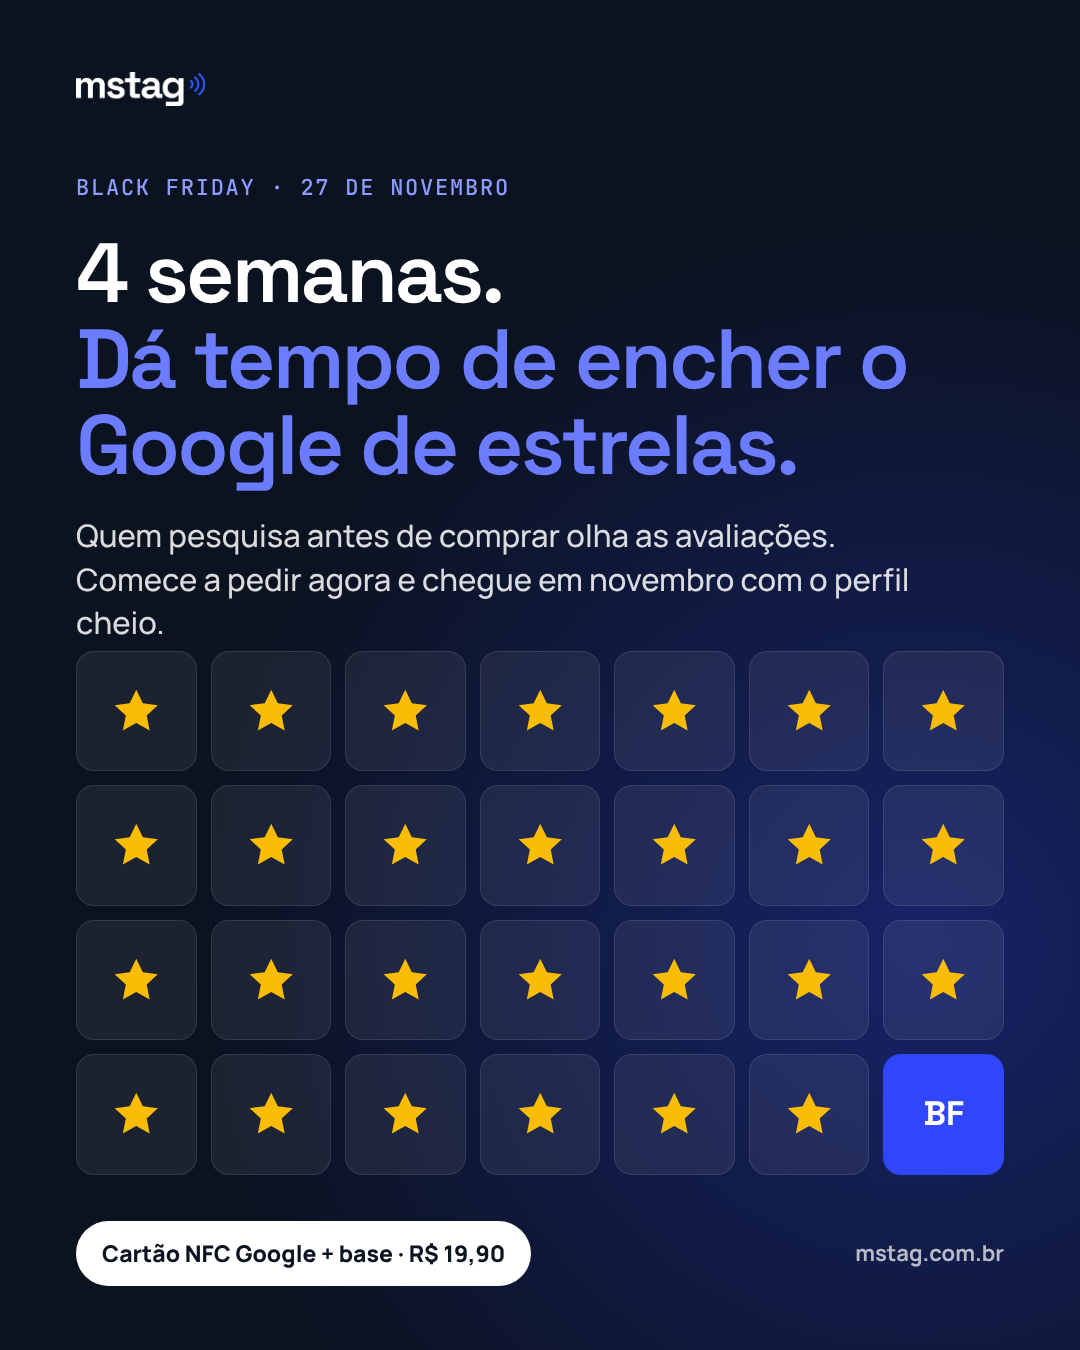
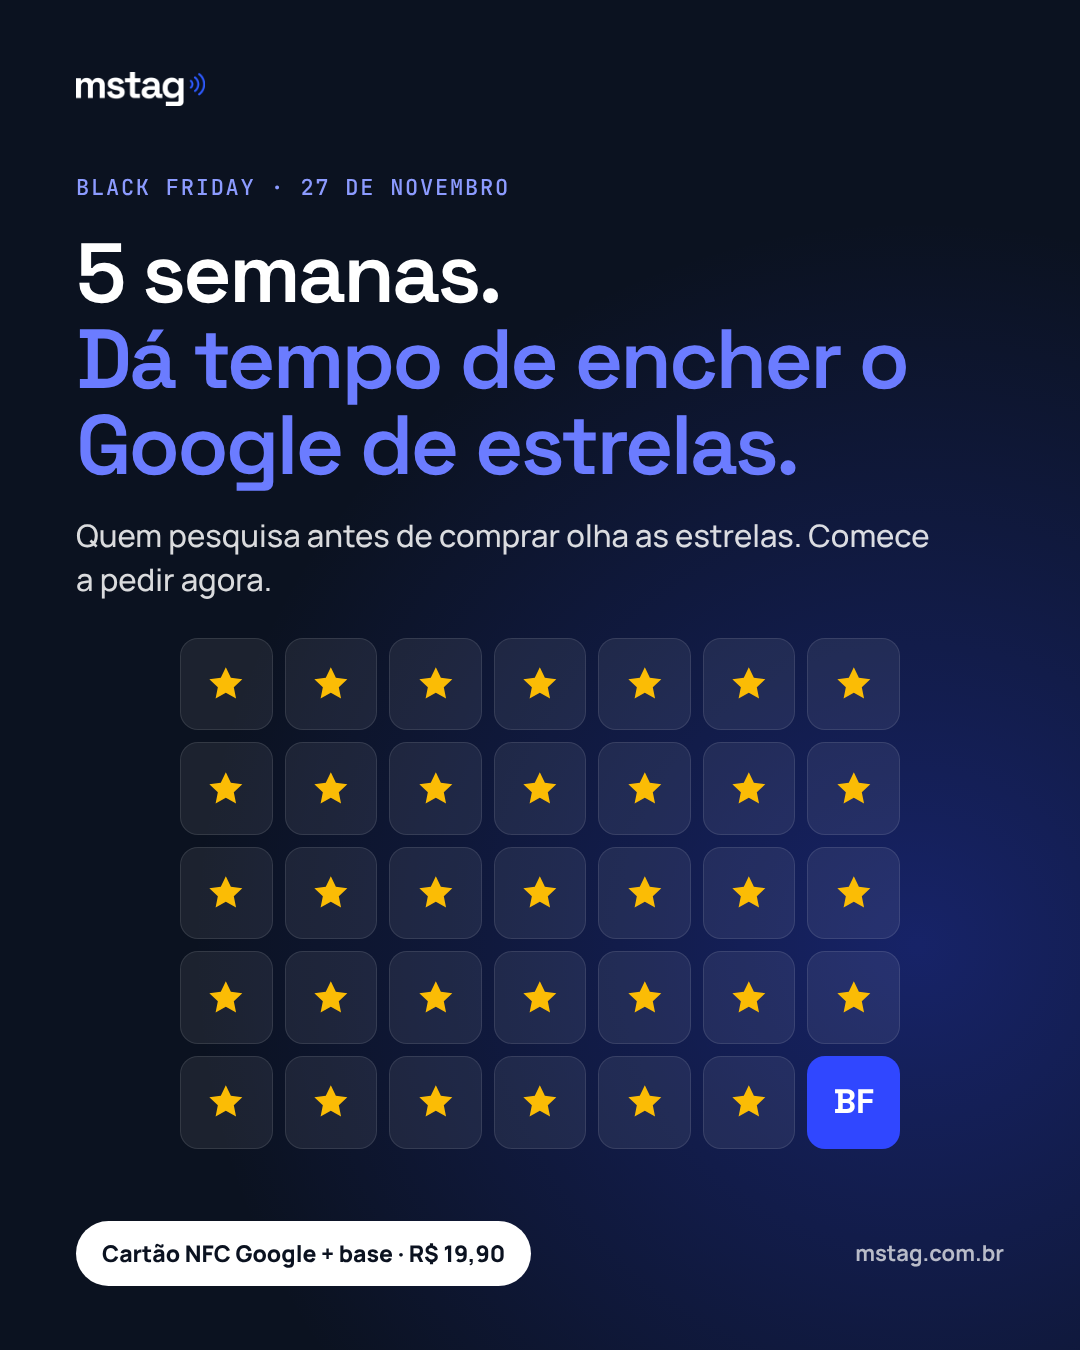
Antecipa o calendário dos posts para 13 a 24/10 e ajusta a contagem da Black Friday
Claude-Session: https://claude.ai/code/session_01LcrbZauJ496bCczRi3vv9g

diff --git a/instagram/LEGENDAS.md b/instagram/LEGENDAS.md
@@ -1,27 +1,27 @@
-# Instagram @mstagbr · 2 semanas de posts (19/10 a 31/10/2026)
+# Instagram @mstagbr · 2 semanas de posts (13/10 a 24/10/2026)
 
-10 posts, 5 por semana, sem repetir os temas que já estão no perfil. Artes em 1080 × 1350 (4:5) nas pastas `p01-...` a `p10-...`. Carrossel = poste as imagens na ordem `01.png`, `02.png`...
+10 posts, 5 por semana, agendados no Metricool (o primeiro às 12h, os demais às 10h), sem repetir os temas que já estão no perfil. Artes em 1080 × 1350 (4:5) nas pastas `p01-...` a `p10-...`. Carrossel = poste as imagens na ordem `01.png`, `02.png`...
 
 Preços conferidos com o `js/config.js` (out/2026): plaquinhas 10 × 10 R$ 79,99, 10 × 15 em L e display de mesa R$ 89,99, cartão NFC com base R$ 19,90.
 
 | Dia | Post | Formato | Tema |
 | --- | --- | --- | --- |
-| Seg 19/10 | p01 | Carrossel 4 | Funciona no iPhone? Onde encostar |
-| Qua 21/10 | p02 | Único | Quadrada (10 × 10) ou em L (10 × 15) |
-| Qui 22/10 | p03 | Único | Sem bateria, sem tomada, sem app |
-| Sex 23/10 | p04 | Carrossel 6 | 5 lugares onde a plaquinha trabalha sozinha |
-| Sáb 24/10 | p05 | Único | Barbearias e salões |
-| Seg 26/10 | p06 | Carrossel 4 | Mudou o link? A placa fica (QR dinâmico) |
-| Qua 28/10 | p07 | Único | Display de mesa: o que o garçom ouve a noite toda |
-| Qui 29/10 | p08 | Carrossel 5 | Como responder avaliações no Google |
-| Sex 30/10 | p09 | Carrossel 4 | Programa de revenda |
-| Sáb 31/10 | p10 | Único | 4 semanas pra Black Friday (27/11) |
+| Ter 13/10 | p01 | Carrossel 4 | Funciona no iPhone? Onde encostar |
+| Qua 14/10 | p02 | Único | Quadrada (10 × 10) ou em L (10 × 15) |
+| Qui 15/10 | p03 | Único | Sem bateria, sem tomada, sem app |
+| Sex 16/10 | p04 | Carrossel 6 | 5 lugares onde a plaquinha trabalha sozinha |
+| Sáb 17/10 | p05 | Único | Barbearias e salões |
+| Seg 19/10 | p06 | Carrossel 4 | Mudou o link? A placa fica (QR dinâmico) |
+| Qua 21/10 | p07 | Único | Display de mesa: o que o garçom ouve a noite toda |
+| Qui 22/10 | p08 | Carrossel 5 | Como responder avaliações no Google |
+| Sex 23/10 | p09 | Carrossel 4 | Programa de revenda |
+| Sáb 24/10 | p10 | Único | 5 semanas pra Black Friday (27/11) |
 
 ---
 
 ## Semana 1
 
-### p01 · Seg 19/10 · Carrossel · Funciona no iPhone?
+### p01 · Ter 13/10 · Carrossel · Funciona no iPhone?
 
 A pergunta que mais ouvimos no balcão: "funciona no meu celular?" 📱
 
@@ -39,7 +39,7 @@ Salva esse post pra mostrar pro cliente que ainda acha que "isso é coisa de cel
 
 ---
 
-### p02 · Qua 21/10 · Único · Quadrada ou em L?
+### p02 · Qua 14/10 · Único · Quadrada ou em L?
 
 Quadrada ou em L? Depende do seu balcão 👀
 
@@ -59,7 +59,7 @@ Comenta 📦 se a sua seria a quadrada ou 🅻 se seria a em L!
 
 ---
 
-### p03 · Qui 22/10 · Único · Sem bateria, sem tomada, sem app
+### p03 · Qui 15/10 · Único · Sem bateria, sem tomada, sem app
 
 "Mas precisa carregar?" Não 🔋❌
 
@@ -78,7 +78,7 @@ Coloca no balcão e esquece. Ela trabalha sozinha. 💙
 
 ---
 
-### p04 · Sex 23/10 · Carrossel · 5 lugares
+### p04 · Sex 16/10 · Carrossel · 5 lugares
 
 Não é só no caixa 👇 Os 5 lugares onde a plaquinha mais rende:
 
@@ -96,7 +96,7 @@ Qual desses lugares tem no seu negócio? Conta aqui 👇
 
 ---
 
-### p05 · Sáb 24/10 · Único · Barbearias e salões
+### p05 · Sáb 17/10 · Único · Barbearias e salões
 
 Corte aprovado no espelho ✂ 5 estrelas no Google ⭐
 
@@ -114,7 +114,7 @@ Marca aqui aquele barbeiro ou cabeleireiro que merece uma plaquinha 👇
 
 ## Semana 2
 
-### p06 · Seg 26/10 · Carrossel · Mudou o link? A placa fica
+### p06 · Seg 19/10 · Carrossel · Mudou o link? A placa fica
 
 Trocou o @ do Instagram, o cardápio, o número do WhatsApp... e agora a placa no balcão aponta pro lugar errado? 😬
 
@@ -132,7 +132,7 @@ Compra uma vez, acompanha o seu negócio. 💙
 
 ---
 
-### p07 · Qua 28/10 · Único · O que o garçom ouve a noite toda
+### p07 · Qua 21/10 · Único · O que o garçom ouve a noite toda
 
 "Qual a senha do Wi-Fi?"
 "Tem cardápio?"
@@ -151,7 +151,7 @@ Marca o dono daquele lugar que você sempre pergunta a senha do Wi-Fi 👇
 
 ---
 
-### p08 · Qui 29/10 · Carrossel · Como responder avaliações
+### p08 · Qui 22/10 · Carrossel · Como responder avaliações
 
 Chegou avaliação no Google. E agora, responde? ✍
 
@@ -170,7 +170,7 @@ E pra ter muita avaliação pra responder, a plaquinha pede por você no balcão
 
 ---
 
-### p09 · Sex 30/10 · Carrossel · Revenda
+### p09 · Sex 23/10 · Carrossel · Revenda
 
 Quer ganhar dinheiro vendendo plaquinha NFC? 💸
 
@@ -189,9 +189,9 @@ Ideal pra agências, social media, gráficas, representantes e quem vende porta 
 
 ---
 
-### p10 · Sáb 31/10 · Único · 4 semanas pra Black Friday
+### p10 · Sáb 24/10 · Único · 5 semanas pra Black Friday
 
-Faltam 4 semanas pra Black Friday (27/11) 🖤
+Faltam 5 semanas pra Black Friday (27/11) 🖤
 
 Em novembro muita gente pesquisa antes de comprar, e a primeira coisa que olha são as estrelas no Google. Dá tempo de chegar lá com o perfil cheio de avaliação nova, mas tem que começar agora.
 
